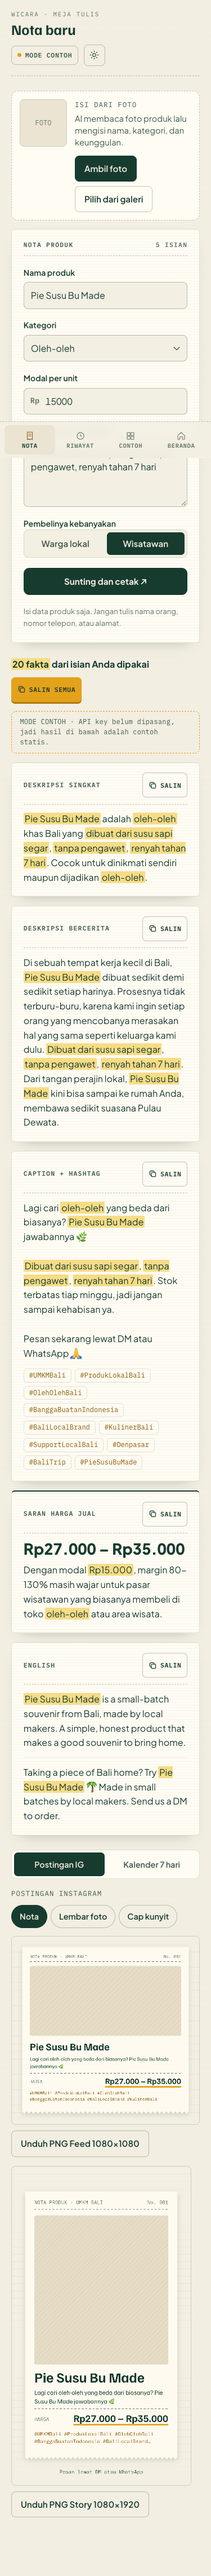
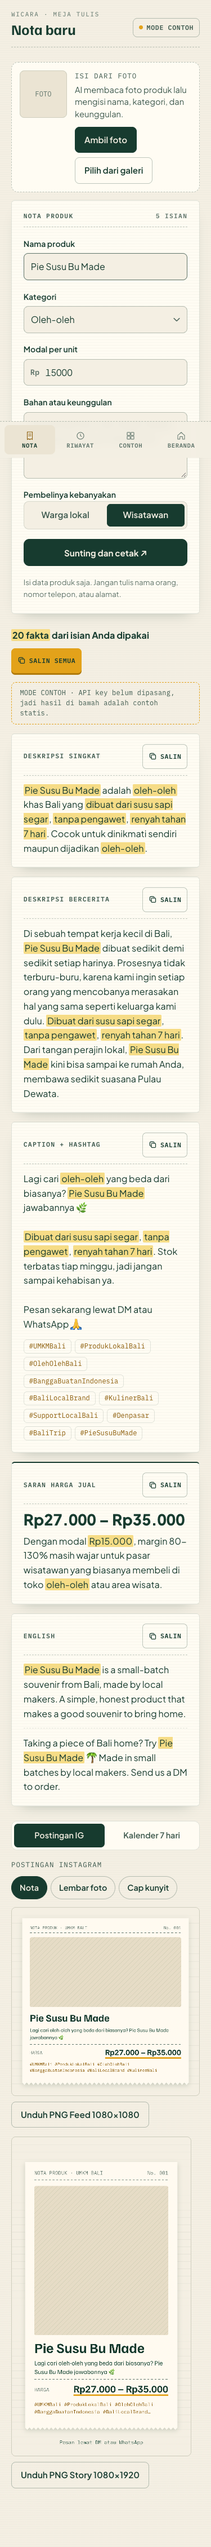
Hanya mode terang: hapus toggle tema, token gelap, dan skrip tema
- Tombol tema di navbar landing dan app dihapus beserta komponennya
- Token dan aturan mode gelap dihapus; color-scheme light dipaksa supaya tidak mengikuti setelan OS
- Skrip di head kini hanya memasang kelas js untuk animasi landing
- Screenshot mode gelap dihapus dari docs

diff --git a/app/globals.css b/app/globals.css
@@ -7,6 +7,7 @@
   Tekstur garis kertas memakai repeating-linear-gradient sebagai pola, bukan gradasi warna.
 */
 :root {
+  color-scheme: light;
   --kertas: #f4efe3;
   --kertas-hi: #fffcf3;
   --kertas-2: #ebe4d3;
@@ -39,31 +40,6 @@
   --ease: cubic-bezier(0.16, 1, 0.3, 1);
 }
 
-:root[data-theme="dark"] .ak-ikon { background: var(--kertas-2); color: var(--kunyit); }
-:root[data-theme="dark"] .ak-item.buka .ak-ikon { background: transparent; }
-:root[data-theme="dark"] {
-  /* Malam di warung: hijau tua sangat gelap, teks krem, kunyit tetap aksen. */
-  color-scheme: dark;
-  --kertas: #0c1a15;
-  --kertas-hi: #13261f;
-  --kertas-2: #1a3129;
-  --tinta: #f1ecdf;
-  --tinta-2: #c4cbbf;
-  --tinta-3: #97a398;
-  --kunyit: #e8ae33;
-  --kunyit-tua: #b07a0b;
-  --kunyit-teks: #e8ae33;
-  --bata: #e0806a;
-  --garis: rgb(241 236 223 / 0.24);
-  --garis-soft: rgb(241 236 223 / 0.12);
-  --tekstur: rgb(241 236 223 / 0.02);
-  --tekstur-nota: rgb(241 236 223 / 0.025);
-  --band: #07120e;
-  --band-teks: #f1ecdf;
-  --band-teks-2: #b9c4ba;
-  --angkat: 0 26px 50px -26px rgb(0 0 0 / 0.75);
-  --angkat-kecil: 0 12px 26px -18px rgb(0 0 0 / 0.7);
-}
 
 * { box-sizing: border-box; }
 html { scroll-behavior: smooth; scroll-padding-top: 80px; overflow-x: clip; -webkit-text-size-adjust: 100%; scrollbar-color: var(--garis) transparent; }
@@ -122,9 +98,6 @@ mark, .stabilo { background: var(--stabilo); color: var(--stabilo-teks); padding
 .tautan-garis:hover { color: var(--kunyit-teks); }
 .tautan-garis.terang { color: var(--band-teks); }
 
-.tema-toggle { display: grid; place-items: center; flex: none; width: 38px; height: 38px; border: 1.5px solid var(--garis); border-radius: 8px; background: transparent; color: var(--tinta-2); cursor: pointer; transition: border-color 0.15s, color 0.15s; }
-.tema-toggle:hover { border-color: var(--kunyit); color: var(--kunyit-teks); }
-.tema-toggle svg { width: 17px; height: 17px; }
 
 .merek { display: inline-flex; align-items: baseline; gap: 2px; min-height: 44px; padding-top: 10px; font: 700 1.6rem/1 var(--display); letter-spacing: 0; }
 .merek i { width: 7px; height: 7px; border-radius: 1px; background: var(--kunyit); transform: rotate(45deg); }
@@ -461,7 +434,6 @@ html.lenis { scroll-behavior: auto; }
 .sisi-item[aria-current="page"] .icon { color: var(--kunyit); }
 .sisi-item small { margin-left: auto; padding: 2px 7px; border-radius: 99px; background: var(--kunyit); color: #173b2f; font: 600 0.68rem/1.3 var(--mono); }
 .sisi-bawah { display: flex; flex-direction: column; gap: 6px; margin-top: auto; padding-top: 1rem; border-top: 1.5px dashed var(--garis); }
-.sisi-tema { display: flex; align-items: center; justify-content: space-between; padding: 0 0.75rem; font: 400 0.72rem/1 var(--mono); letter-spacing: 0.1em; text-transform: uppercase; color: var(--tinta-3); }
 
 .kerja { min-width: 0; padding: 1.25rem var(--tepi) 6.5rem; }
 @media (min-width: 1100px) { .kerja { padding: 1.6rem 2.4rem 3rem; } }
@@ -469,7 +441,6 @@ html.lenis { scroll-behavior: auto; }
 .kerja-label { font: 400 0.68rem/1 var(--mono); letter-spacing: 0.16em; color: var(--tinta-3); }
 .kerja-atas h1 { margin-top: 0.5rem; font-size: clamp(1.6rem, 1.3rem + 1.2vw, 2.2rem); }
 .kerja-alat { display: flex; align-items: center; gap: 0.6rem; }
-@media (min-width: 1100px) { .kerja-alat .tema-toggle { display: none; } }
 .status { display: inline-flex; align-items: center; gap: 0.6em; min-height: 34px; padding: 0 0.85em; border: 1.5px solid var(--garis); border-radius: 8px; font: 600 0.72rem/1 var(--mono); letter-spacing: 0.06em; text-transform: uppercase; color: var(--tinta-2); }
 .status i { width: 7px; height: 7px; border-radius: 50%; background: var(--tinta-3); }
 .status-sibuk i { background: var(--bata); animation: kedip 1s ease-in-out infinite alternate; }

diff --git a/app/layout.js b/app/layout.js
@@ -20,21 +20,19 @@ export const metadata = {
 };
 
 export const viewport = {
-  themeColor: [
-    { media: "(prefers-color-scheme: light)", color: "#f4efe3" },
-    { media: "(prefers-color-scheme: dark)", color: "#0c1a15" },
-  ],
+  themeColor: "#f4efe3",
+  colorScheme: "light",
 };
 
-// Dipasang sebelum halaman digambar: tema tanpa kedipan, dan kelas "js" untuk animasi landing.
+// Dipasang sebelum halaman digambar: kelas "js" untuk animasi landing.
 // Kalau skrip gerak gagal jalan dalam 2,5 detik, kelas itu dicabut supaya isi tetap tampil.
-const SKRIP_TEMA = `(function(){var t;try{t=localStorage.getItem("tema")}catch(e){}if(t!=="dark"&&t!=="light"){t=window.matchMedia("(prefers-color-scheme: dark)").matches?"dark":"light"}var h=document.documentElement;h.dataset.theme=t;h.classList.add("js");setTimeout(function(){if(!window.__gerak)h.classList.remove("js")},2500)})();`;
+const SKRIP_JS = `(function(){var h=document.documentElement;h.classList.add("js");setTimeout(function(){if(!window.__gerak)h.classList.remove("js")},2500)})();`;
 
 export default function RootLayout({ children }) {
   return (
     <html lang="id" className={`${display.variable} ${sans.variable} ${mono.variable}`} suppressHydrationWarning>
       <head>
-        <script dangerouslySetInnerHTML={{ __html: SKRIP_TEMA }} />
+        <script dangerouslySetInnerHTML={{ __html: SKRIP_JS }} />
       </head>
       <body>{children}</body>
     </html>

diff --git a/app/app/Aplikasi.js b/app/app/Aplikasi.js
@@ -5,7 +5,6 @@ import { useEffect, useRef, useState } from "react";
 import Icon from "../components/Icon";
 import { Stabilo, buatFakta, hitungFakta } from "../components/Stabilo";
 import { CopyButton, Section, rupiah } from "../components/Struk";
-import TemaToggle from "../components/TemaToggle";
 import { CONTOH } from "../data/contoh";
 import FotoKeForm from "../components/fitur/FotoKeForm";
 import KalenderKonten from "../components/fitur/KalenderKonten";
@@ -180,7 +179,6 @@ export default function Aplikasi() {
           ))}
         </nav>
         <div className="sisi-bawah">
-          <div className="sisi-tema"><span>Tema</span><TemaToggle /></div>
           <Link className="sisi-item" href="/"><Garis nama="rumah" /><span>Ke beranda</span></Link>
         </div>
       </aside>
@@ -193,7 +191,6 @@ export default function Aplikasi() {
           </div>
           <div className="kerja-alat">
             <p className={`status status-${status[0]}`} role="status"><i aria-hidden="true" />{status[1]}</p>
-            <TemaToggle />
           </div>
         </header>
 

diff --git a/app/components/SiteHeader.js b/app/components/SiteHeader.js
@@ -3,7 +3,6 @@
 import Link from "next/link";
 import { useEffect, useState } from "react";
 import Icon from "./Icon";
-import TemaToggle from "./TemaToggle";
 
 const MENU = [
   ["#masalah", "Masalah"],
@@ -40,7 +39,6 @@ export default function SiteHeader() {
           {MENU.map(([href, label]) => <a key={href} href={href}>{label}</a>)}
         </nav>
         <div className="nav-kanan">
-          <TemaToggle />
           <Link className="nav-cta" href="/app">Buka app <span className="panah">→</span></Link>
           <button type="button" className="nav-toggle" aria-expanded={buka} aria-controls="menu-hp"
             aria-label={buka ? "Tutup menu" : "Buka menu"} onClick={() => setBuka(!buka)}>
